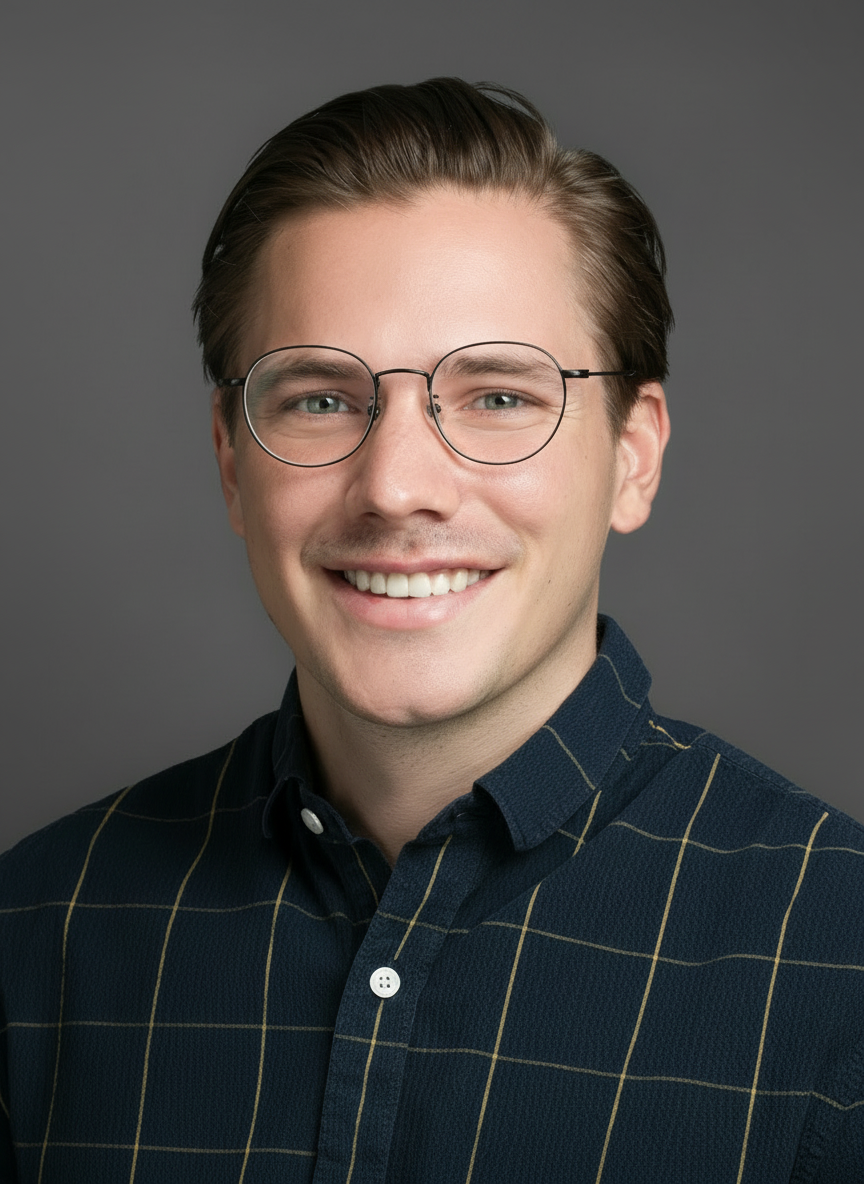
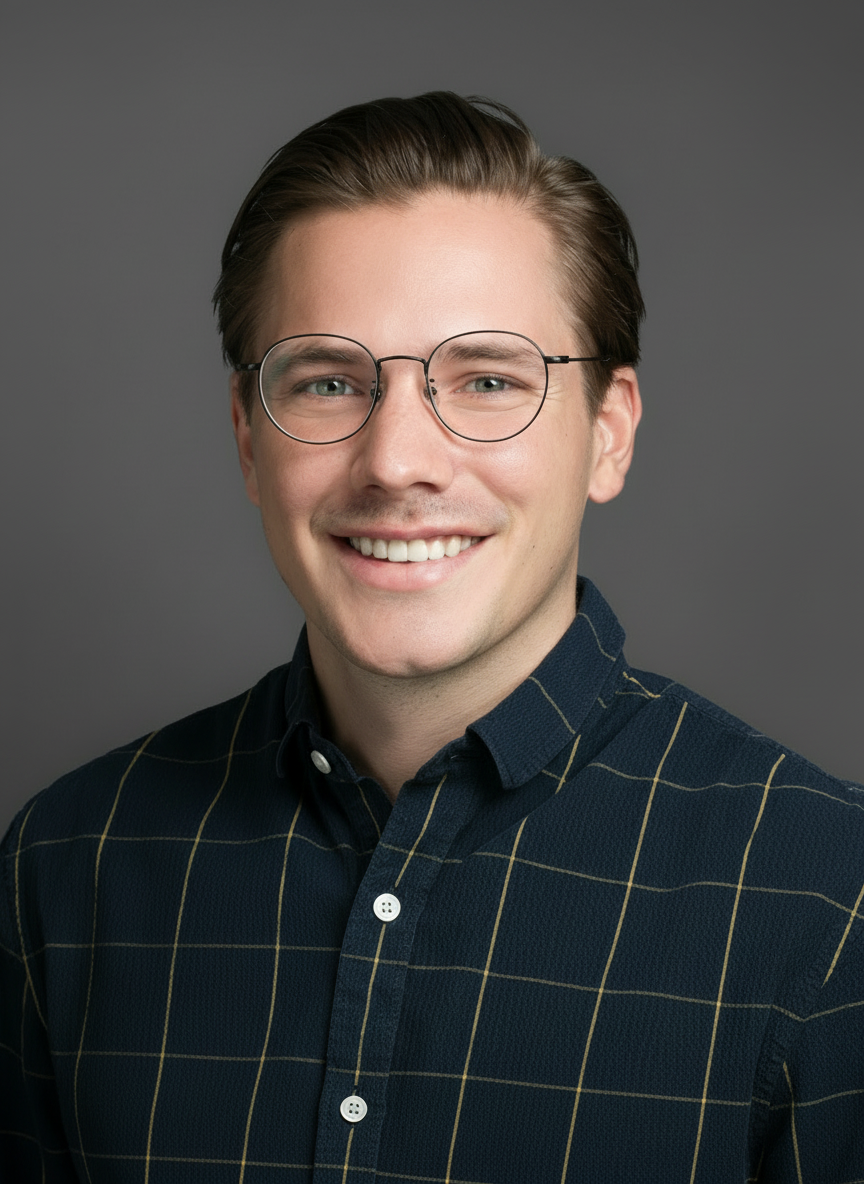
Changes

diff --git a/src/components/TeamSection.tsx b/src/components/TeamSection.tsx
@@ -4,7 +4,7 @@ import fraserPhoto from "@/assets/team-fraser.png";
 import jayPhoto from "@/assets/team-jay.png";
 import candacePhoto from "@/assets/team-candace.png";
 import nicholasPhoto from "@/assets/team-nicholas.png";
-import mitchPhoto from "@/assets/team-mitch-cropped.png";
+import mitchPhoto from "@/assets/team-mitch-tight.png";
 
 interface TeamMember {
   name: string;
@@ -13,6 +13,8 @@ interface TeamMember {
   linkedin: string;
   portfolio?: string[];
   objectPosition?: string;
+  /** Optional transform to force a tighter crop inside the fixed 3:4 card */
+  photoTransform?: string;
 }
 
 const team: TeamMember[] = [
@@ -53,17 +55,23 @@ const team: TeamMember[] = [
   }
 ];
 
-const TeamMemberCard: FC<TeamMember> = ({ name, role, photo, linkedin, portfolio, objectPosition }) => {
+const TeamMemberCard: FC<TeamMember> = ({ name, role, photo, linkedin, portfolio, objectPosition, photoTransform }) => {
+  const effectivePhotoTransform =
+    photoTransform ?? (name === "Mitch Richardson" ? "translateY(-10%) scale(1.18)" : undefined);
+  const photoWrapperStyle = effectivePhotoTransform ? { transform: effectivePhotoTransform } : undefined;
+
   // Static card for members without portfolio (Candace)
   if (!portfolio) {
     return (
       <div className="relative group overflow-hidden aspect-[3/4]">
-        <img 
-          src={photo} 
-          alt={name} 
-          className="w-full h-full object-cover transition-transform duration-500 group-hover:scale-105"
-          style={objectPosition ? { objectPosition } : undefined}
-        />
+        <div className="w-full h-full" style={photoWrapperStyle}>
+          <img 
+            src={photo} 
+            alt={name} 
+            className="w-full h-full object-cover transition-transform duration-500 group-hover:scale-105"
+            style={objectPosition ? { objectPosition } : undefined}
+          />
+        </div>
         <div className="absolute inset-0 bg-gradient-to-t from-black/70 via-black/20 to-transparent" />
         <div className="absolute bottom-0 left-0 right-0 p-4">
           <div className="flex justify-between items-end">
@@ -92,12 +100,14 @@ const TeamMemberCard: FC<TeamMember> = ({ name, role, photo, linkedin, portfolio
       <div className="relative w-full h-full transition-transform duration-700 [transform-style:preserve-3d] group-hover:[transform:rotateY(180deg)]">
         {/* Front Face */}
         <div className="absolute inset-0 [backface-visibility:hidden] overflow-hidden">
-          <img 
-            src={photo} 
-            alt={name} 
-            className="w-full h-full object-cover transition-transform duration-500 group-hover:scale-105"
-            style={objectPosition ? { objectPosition } : undefined}
-          />
+          <div className="w-full h-full" style={photoWrapperStyle}>
+            <img 
+              src={photo} 
+              alt={name} 
+              className="w-full h-full object-cover transition-transform duration-500 group-hover:scale-105"
+              style={objectPosition ? { objectPosition } : undefined}
+            />
+          </div>
           <div className="absolute inset-0 bg-gradient-to-t from-black/70 via-black/20 to-transparent" />
           <div className="absolute bottom-0 left-0 right-0 p-4">
             <div>
